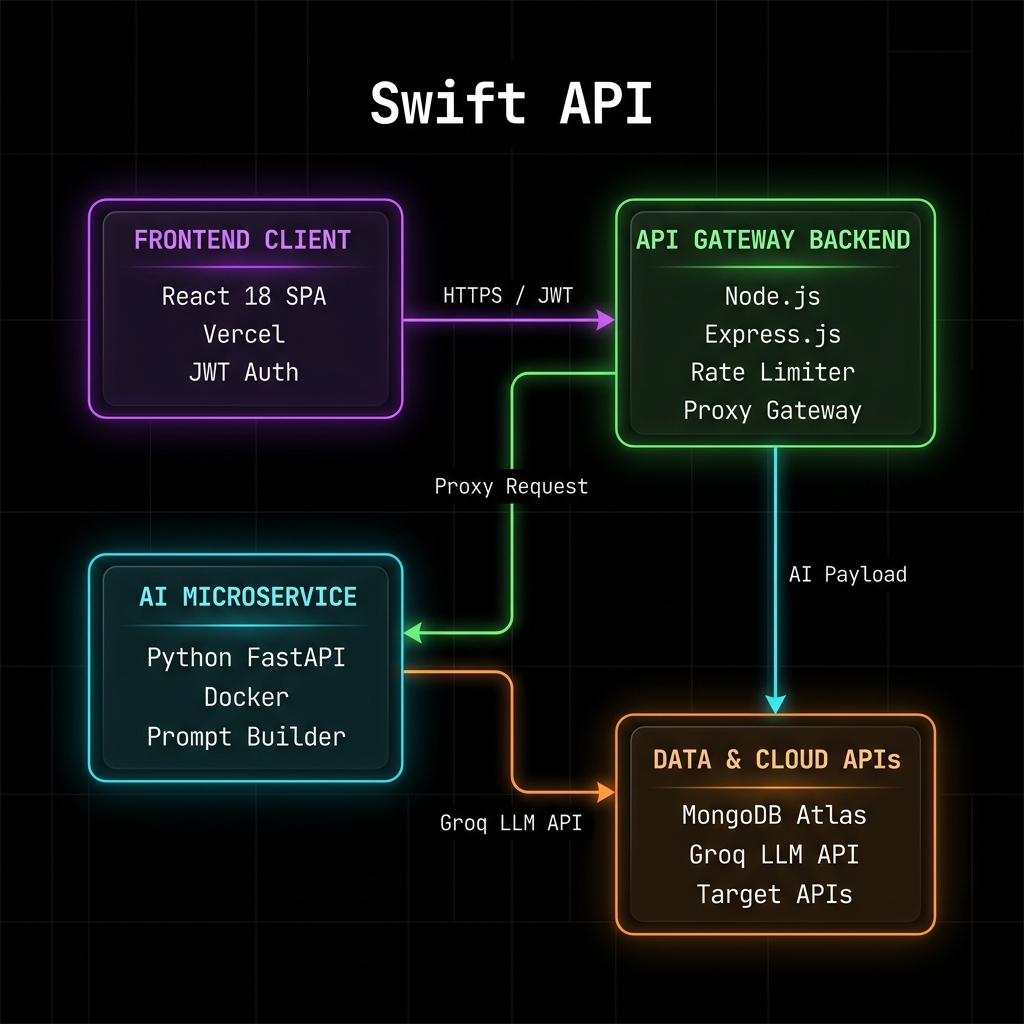
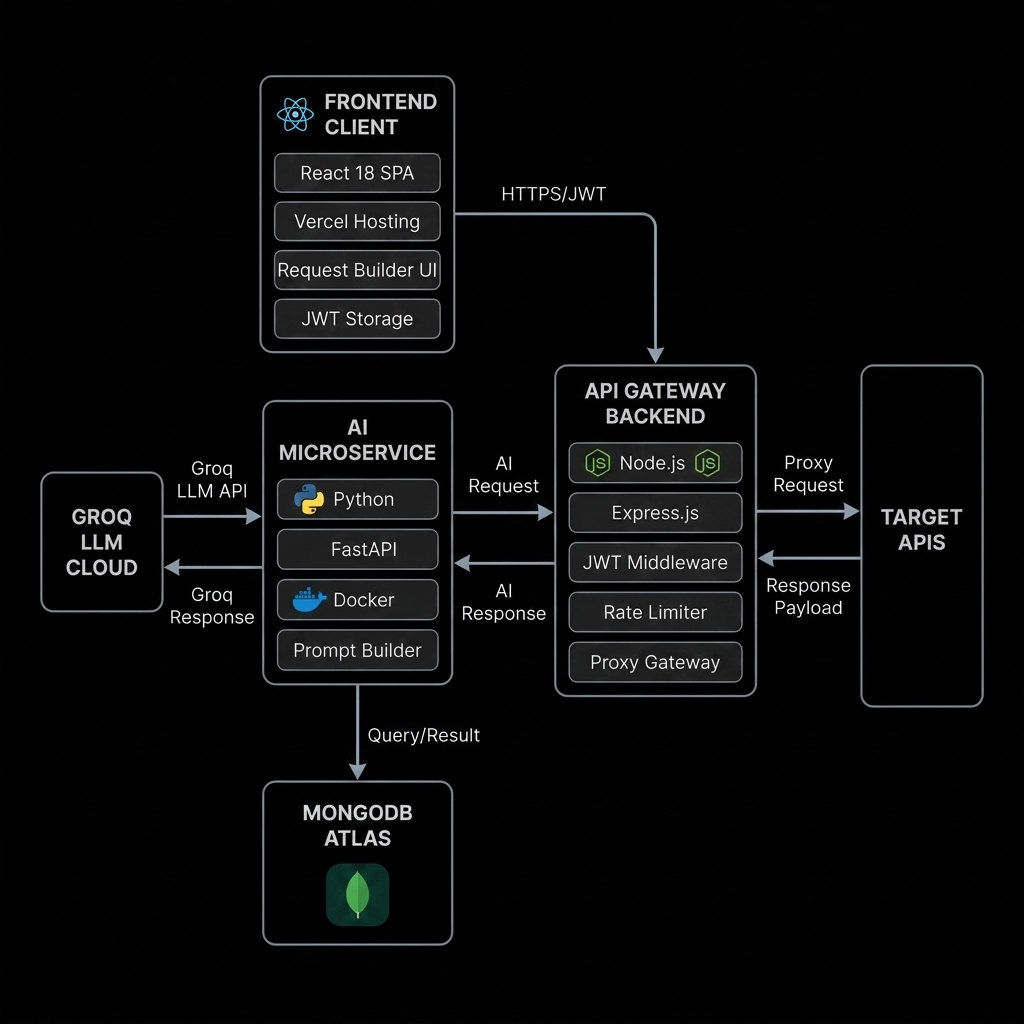
update architecture diagram with pitch black background and silver grey lines

diff --git a/README.md b/README.md
@@ -41,7 +41,7 @@ Swift API uses a decoupled microservices architecture designed for high throughp
 
 <div align="center">
 
-![Swift API System Architecture](assets/Architecture.png?v=3&raw=true)
+![Swift API System Architecture](assets/Architecture.png?v=4&raw=true)
 
 *Comprehensive System Design Architecture Diagram illustrating Frontend SPA, API Gateway Proxy, Python GenAI Microservice, Groq LLM Cloud Engine, and MongoDB Atlas Persistence.*
 
